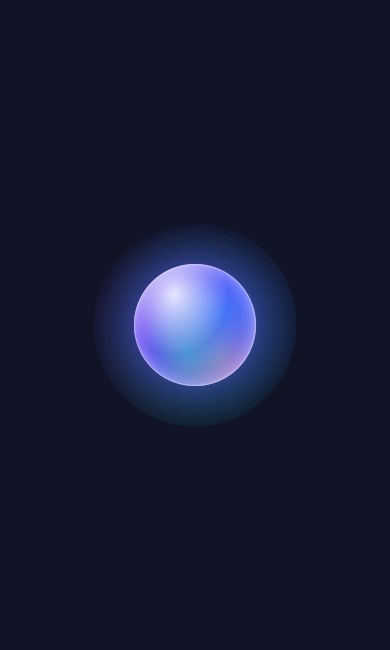
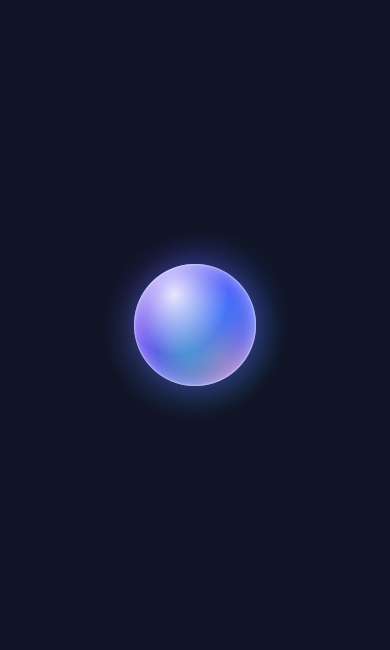
fix(ui): fade DataOrb halo before its frame boundary

Changed region(s): [[0.2462, 0.3692, 0.7692, 0.6462]]

diff --git a/frontend/src/components/portal/orb/dataOrb.css b/frontend/src/components/portal/orb/dataOrb.css
@@ -35,9 +35,9 @@
 .data-orb__static::before {
   inset: 0;
   background-image:
-    radial-gradient(ellipse at 46% 50%, rgba(111, 72, 242, .32) 25%, rgba(111, 72, 242, 0) 69%),
-    radial-gradient(ellipse at 57% 47%, rgba(47, 123, 255, .25) 29%, rgba(47, 123, 255, 0) 69%),
-    radial-gradient(ellipse at 50% 57%, rgba(25, 198, 193, .22) 25%, rgba(25, 198, 193, 0) 69%);
+    radial-gradient(ellipse 44% 46% at 48% 50%, rgba(111, 72, 242, .32) 25%, rgba(111, 72, 242, 0) 100%),
+    radial-gradient(ellipse 41% 44% at 56% 47%, rgba(47, 123, 255, .25) 29%, rgba(47, 123, 255, 0) 100%),
+    radial-gradient(ellipse 44% 42% at 50% 56%, rgba(25, 198, 193, .22) 25%, rgba(25, 198, 193, 0) 100%);
 }
 
 .data-orb__static::after {

diff --git a/frontend/src/components/portal/orb/dataOrbShader.ts b/frontend/src/components/portal/orb/dataOrbShader.ts
@@ -91,6 +91,7 @@ void main(){
   vec3 hc=mix(uC1,uC3,.5+.5*sin(ang+t*.4*uFx));
   hc=mix(hc,uC2,.3);
   float ha=clamp((halo+rim)*mix(.8,1.15,uDark),0.,1.);
+  ha *= 1. - smoothstep(.42, .5, r);
   float a=inside+(1.-inside)*ha;
   vec3 c=col*inside+(1.-inside)*hc*ha;
   gl_FragColor=vec4(c,a);

diff --git a/frontend/src/components/portal/orb/README.md b/frontend/src/components/portal/orb/README.md
@@ -12,7 +12,7 @@ The static gradient sphere is the first render. The canvas replaces it after the
 
 ## Source and compatibility audit
 
-- [B Orb, c00bac8a8405389f8a419d92876664ba9b3e9a6c](https://github.com/fanmihua/data-hub-demo/blob/c00bac8a8405389f8a419d92876664ba9b3e9a6c/src/variants/b/Orb.tsx) supplies the WebGL 1 GLSL ES 1.00 simplex/domain-warped flow, lighting, edge and halo. The port preserves these equations and the fullscreen triangle. It fixes the light direction and removes cursor offset and an unused FBM function. The shader requires fragment highp.
+- [B Orb, c00bac8a8405389f8a419d92876664ba9b3e9a6c](https://github.com/fanmihua/data-hub-demo/blob/c00bac8a8405389f8a419d92876664ba9b3e9a6c/src/variants/b/Orb.tsx) supplies the WebGL 1 GLSL ES 1.00 simplex/domain-warped flow, lighting, edge and halo. The port preserves these equations and the fullscreen triangle. It fixes the light direction, fades the outer halo to zero at the frame boundary, and removes cursor offset and an unused FBM function. The shader requires fragment highp.
 - [Effect helpers](https://github.com/fanmihua/data-hub-demo/blob/c00bac8a8405389f8a419d92876664ba9b3e9a6c/src/core/fx/hooks.ts) supplied sizing, rAF and theme color conversion in the Demo. The port manages local canvas size and frame scheduling with browser APIs. The Demo Provider, global pointer listener, color-probe canvas and rAF loop are omitted. The Demo continued scheduling rAF offscreen and could leave shaders/programs allocated after partial initialization. The port cancels pending work and deletes allocated GPU objects during cleanup and on failure.
 - [Variant B CSS](https://github.com/fanmihua/data-hub-demo/blob/c00bac8a8405389f8a419d92876664ba9b3e9a6c/src/variants/b/b.css) informed the four-color palette and gradient fallback. The port uses locally scoped selectors and basic radial gradients with a solid background and inset edge. It requires no assets, fonts, third-party packages, or runtime network requests and builds with DAP's React 19, TypeScript 6 and Vite 8.
 - [Demo MIT license](https://github.com/fanmihua/data-hub-demo/blob/c00bac8a8405389f8a419d92876664ba9b3e9a6c/LICENSE) credits © 2026 fanmihua and excludes the Demo's fonts. The shader's simplex code descends from [Ashima Arts / Stefan Gustavson's MIT webgl-noise](https://github.com/ashima/webgl-noise/blob/6abed1e77ed1e18b181627c35f688eb30c9fe75e/LICENSE). Both complete notices are in [frontend/public/licenses/data-orb.txt](../../../../public/licenses/data-orb.txt), served from `licenses/data-orb.txt` in Vite distributions.
